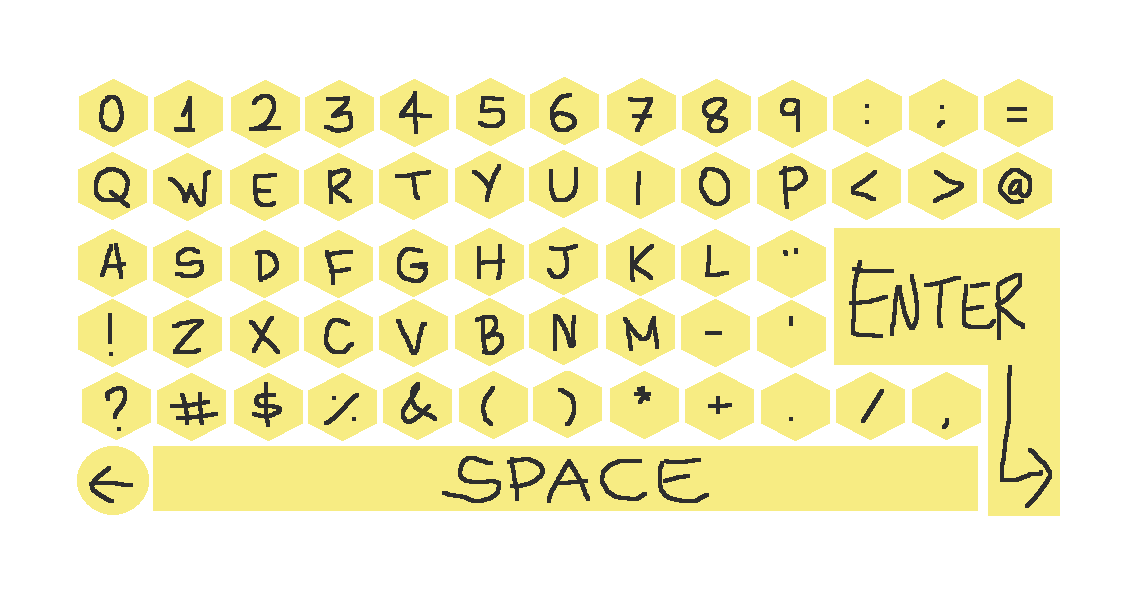
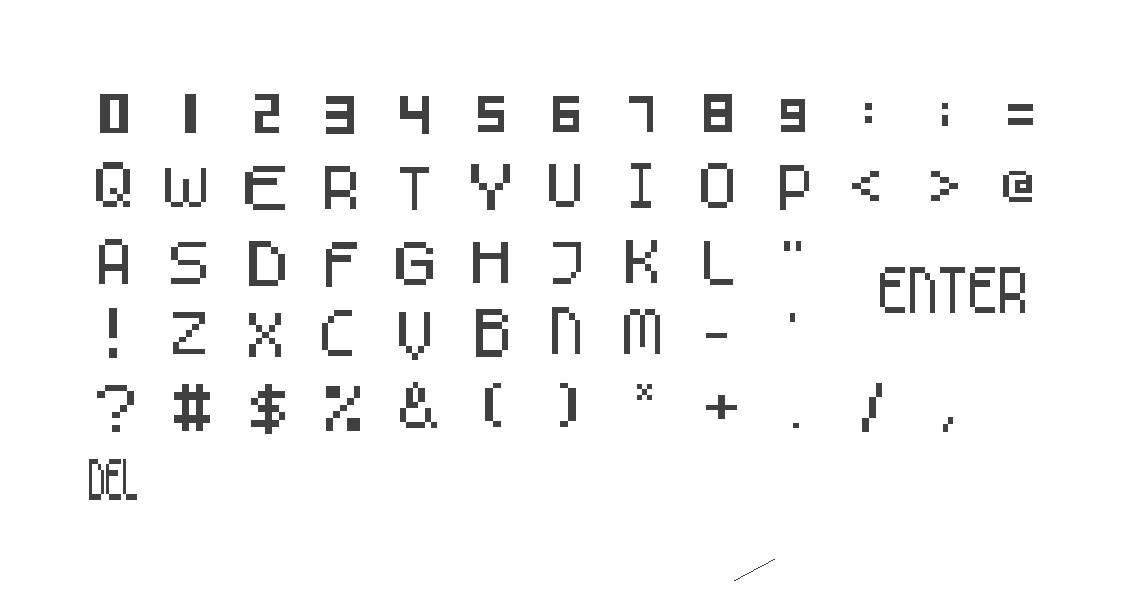
changed all fonts to white color and updated virtual keyboard.

diff --git a/app/jni/src/highscores.c b/app/jni/src/highscores.c
@@ -223,7 +223,7 @@ static void drawNameInput(void)
 
     drawText(SCREEN_WIDTH / 2, 70, 255, 255, 255, TEXT_CENTER, lang == 'P' ? "EXCELENTE! VOCE ENTROU PARA O PLACAR!" : "CONGRATULATIONS, YOU'VE GAINED A HIGHSCORE!");
     drawText(SCREEN_WIDTH / 2, 120, 255, 255, 255, TEXT_CENTER, lang == 'P' ? "DIGITE SEU NOME ABAIXO:" : "ENTER YOUR NAME BELOW:");
-    drawText(SCREEN_WIDTH / 2, 250, 128, 255, 128, TEXT_CENTER, newHighscore->name);
+    drawText(SCREEN_WIDTH / 2, 250, 255, 255, 255, TEXT_CENTER, newHighscore->name);
 
     if (cursorBlink < FPS / 2) {
         r.x = ((SCREEN_WIDTH / 2) + (strlen(newHighscore->name) * GLYPH_WIDTH) / 2) + 5;
@@ -231,7 +231,7 @@ static void drawNameInput(void)
         r.w = GLYPH_WIDTH;
         r.h = GLYPH_HEIGHT;
 
-        SDL_SetRenderDrawColor(app.renderer, 0, 255, 0, 255);
+        SDL_SetRenderDrawColor(app.renderer, 255, 255, 255, 255);
         SDL_RenderFillRect(app.renderer, &r);
     }
 }
@@ -250,7 +250,7 @@ static void drawHighscores(void)
         b = 255;
 
         if (highscores.highscore[i].recent) {
-            b = 0;
+            b = 255;
         }
 
         drawText(SCREEN_WIDTH / 3, y + 70, r, g, b, TEXT_CENTER, "#%d. %-15s ...... %03d", (i + 1), highscores.highscore[i].name, highscores.highscore[i].score);

diff --git a/app/jni/src/stage.c b/app/jni/src/stage.c
@@ -1,5 +1,16 @@
 /* stage.c: the game main stage */
 
+/* TO DO:
+ * Keep documenting
+ * Make SOulOfTheTime and Detona drops
+ * Make score Buttons
+ * Change font and font colors
+ * Fix boss drop
+ * Fix bad rendering of Debris
+ * Draw hud and its elements
+ * Create database
+ */
+
 #include "common.h"
 #include "draw.h"
 #include "sound.h"
@@ -283,7 +294,7 @@ static void initPlayer()
     player->id = 0;
     player->frames = 8;
     player->species = 0;
-    player->energy = 500;
+    player->energy = 250;
     player->magic = 300;
     player->violetSoul = 0;
     player->blueSoul = 0;
